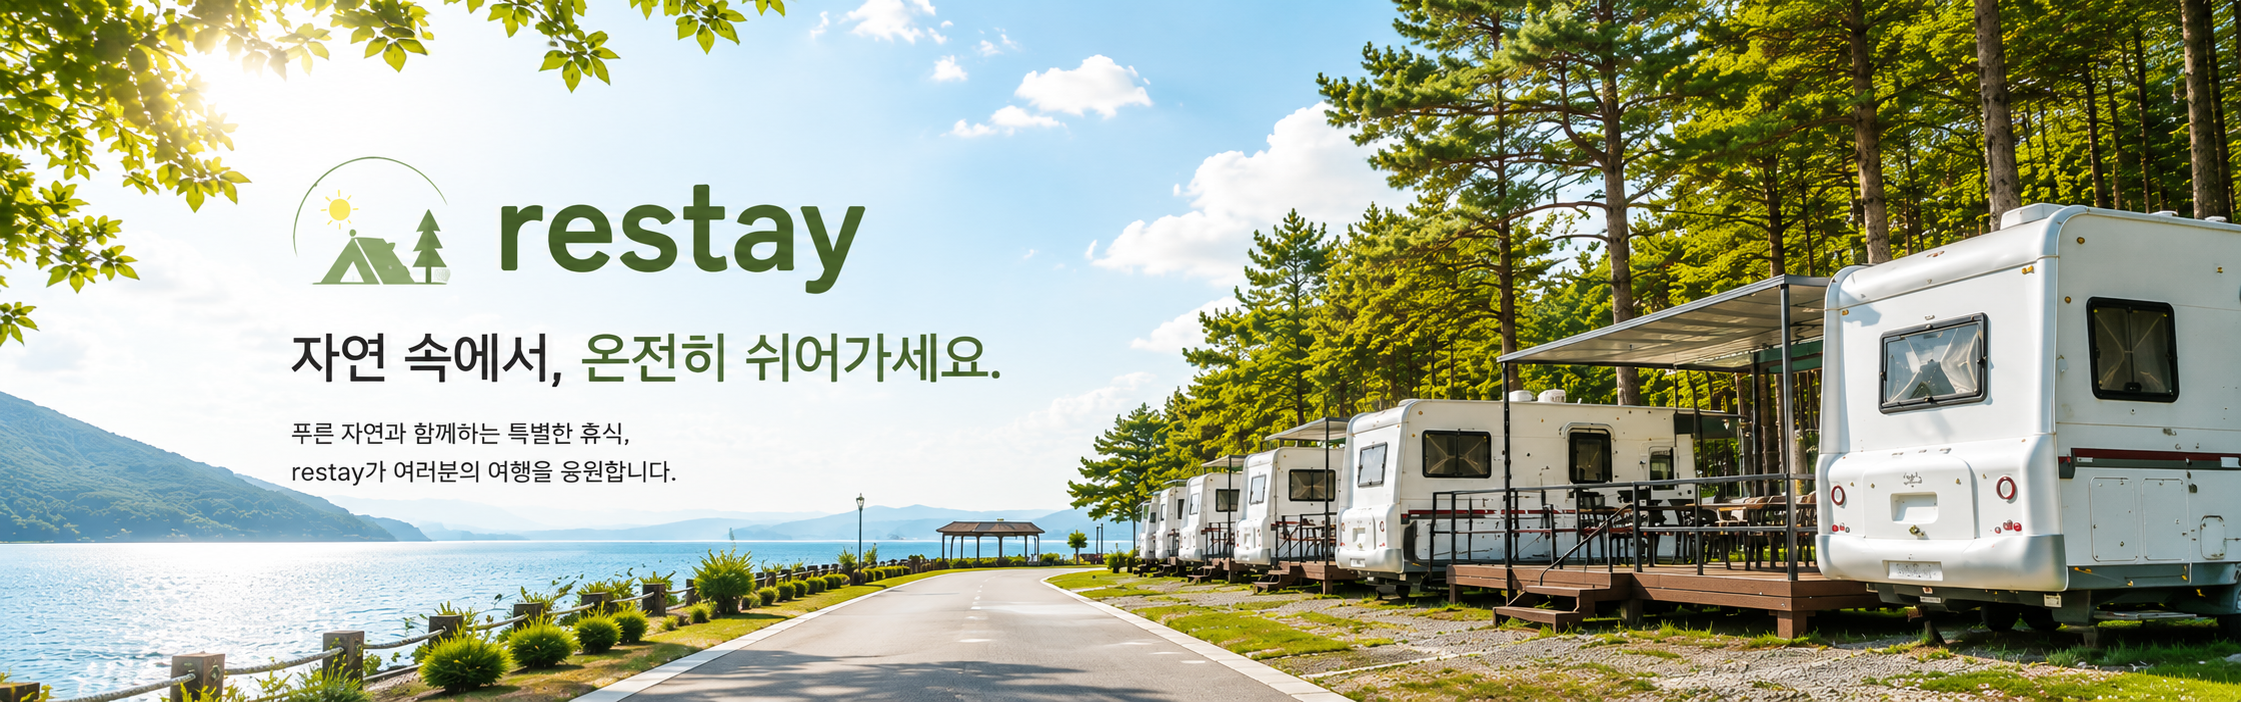
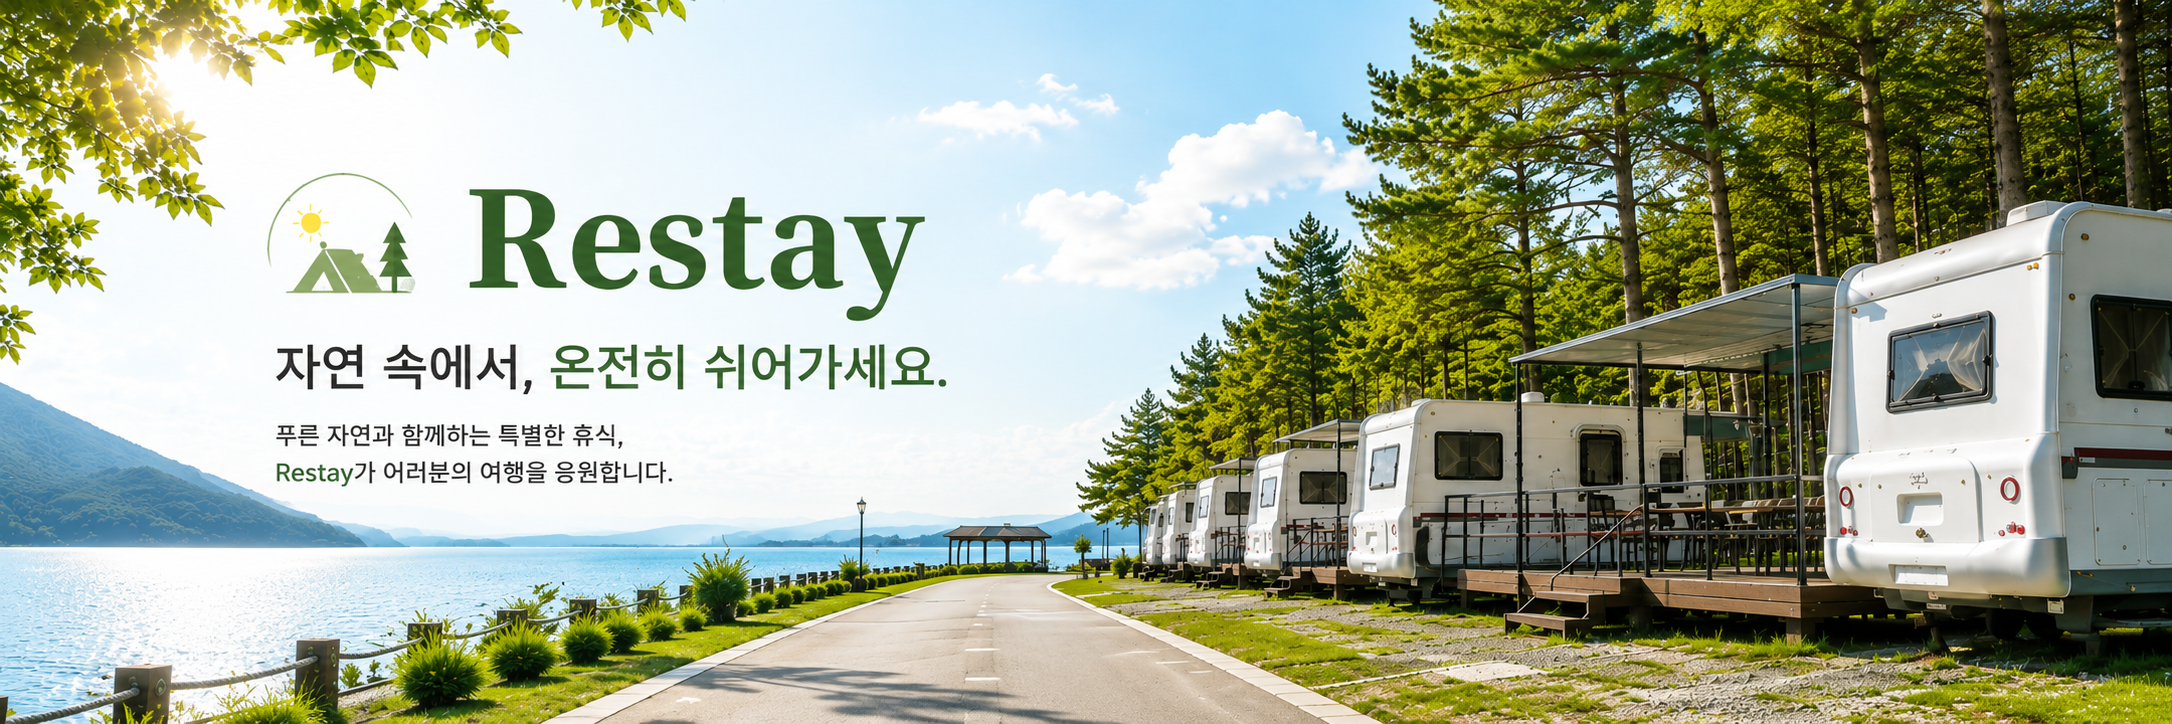
restay -> Restay 수정
메인배너이미지 수정

diff --git a/src/main/resources/templates/layout/header.html b/src/main/resources/templates/layout/header.html
@@ -8,7 +8,7 @@
         <div class="container">
             <!-- 로고 -->
             <a class="navbar-brand d-flex align-items-center gap-2 fw-bold fs-3 text-success" th:href="@{/}">
-                <i class="bi bi-tree-fill fs-2"></i> restay
+                <i class="bi bi-tree-fill fs-2"></i> Restay
             </a>
 
             <!-- 모바일용 햄버거 버튼 -->
